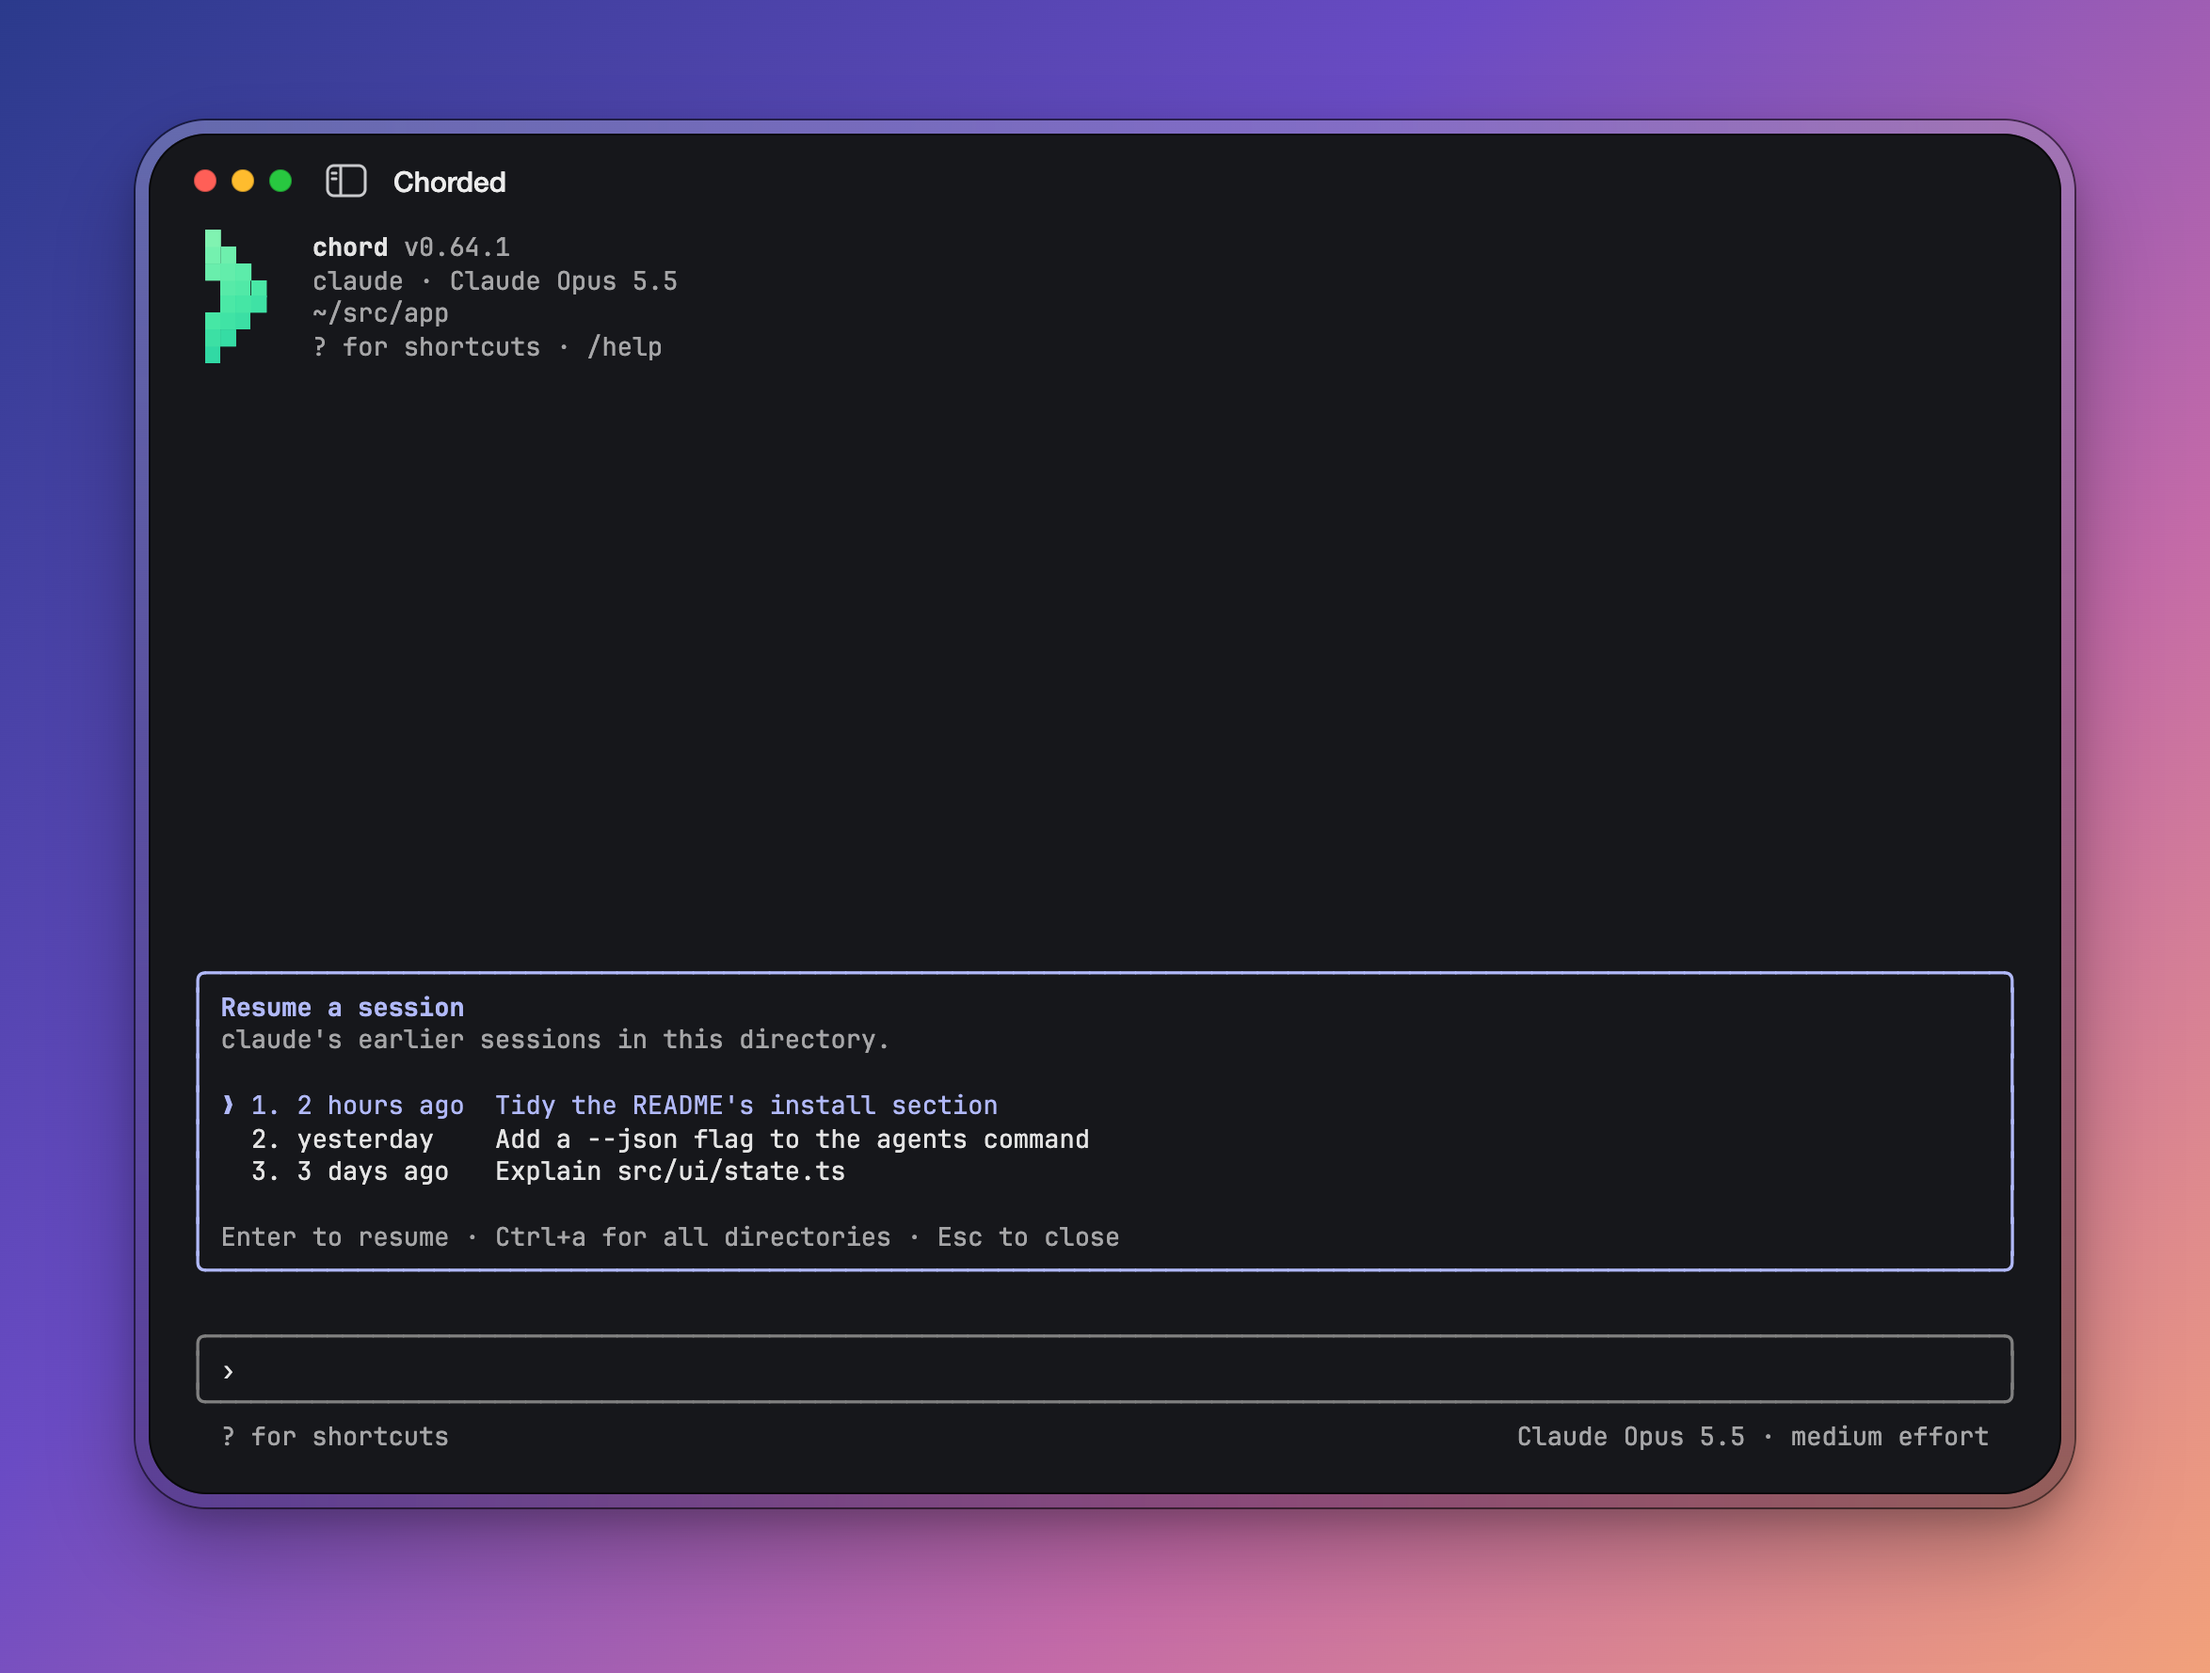
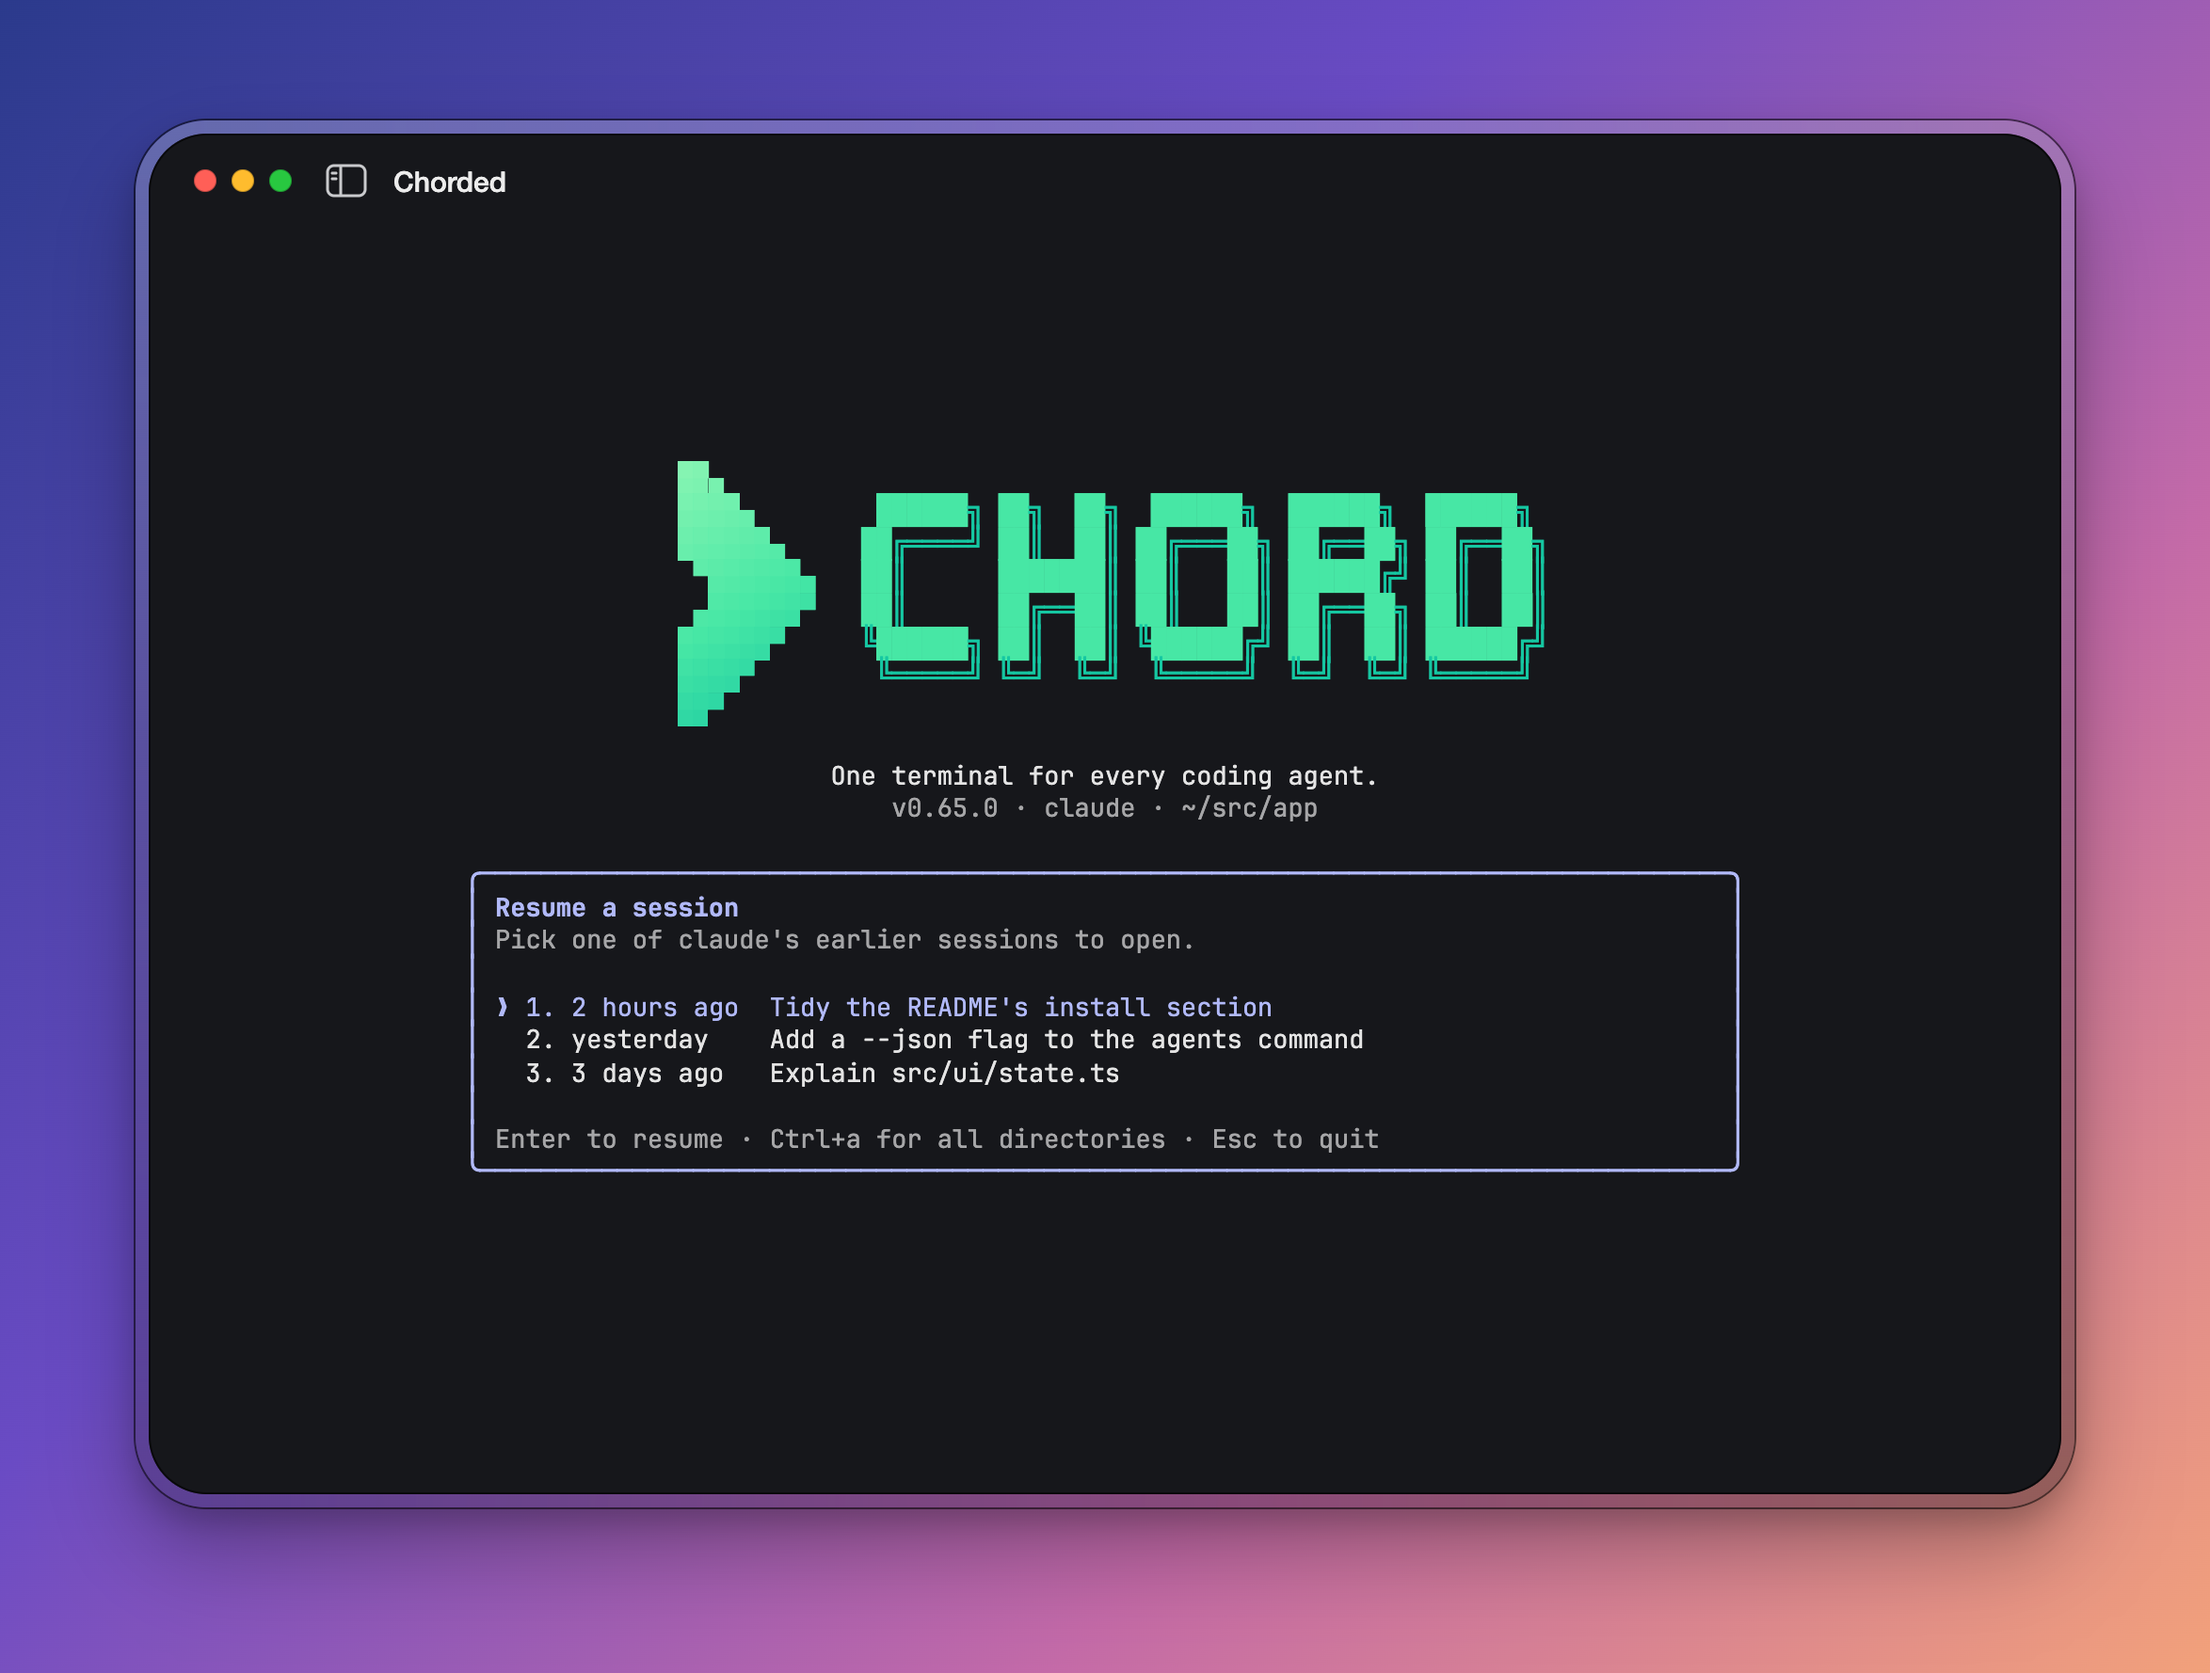
feat(screenshots): the title page's start and resume shots (CHD-564)

diff --git a/scripts/dev/screenshots.ts b/scripts/dev/screenshots.ts
@@ -39,14 +39,24 @@ type Step =
   | { readonly keys: readonly string[] }
   | { readonly until: string }
   | { readonly wait: number }
+  /** chord gone from its pane, as a `/exit` leaves it. */
+  | { readonly exited: true }
   /** The sessions recorded so far aged, the latest first, by these hours. */
-  | { readonly aged: readonly number[] };
+  | { readonly aged: readonly number[] }
+  /** chord started again in the same pane and home, with these arguments. */
+  | { readonly respawn: readonly string[] };
 
-interface Shot {
+export interface Shot {
   /** The file under docs/images, without `.png`. */
   readonly name: string;
   /** The fake agent's scenario for every prompt that names none. */
   readonly scenario: string;
+  /** chord's arguments; `claude` by default, as an unnamed start asks first. */
+  readonly args?: readonly string[];
+  /** What chord's first screen shows; the prompt's hint by default. */
+  readonly first?: string;
+  /** More of chord's environment. */
+  readonly env?: readonly string[];
   readonly steps: readonly Step[];
   /** Whether the project has the `bugfix` team saved; it has by default. */
   readonly team?: boolean;
@@ -57,7 +67,18 @@ function prompt(text: string): Step[] {
   return [{ type: text }, { keys: ['Enter'] }];
 }
 
-const SHOTS: readonly Shot[] = [
+export const SHOTS: readonly Shot[] = [
+  {
+    // Nothing picked, so no agent starts. The system's own PATH leaves out
+    // every own CLI on the machine that takes it, so the list is the same
+    // on any.
+    name: 'start',
+    scenario: 'text',
+    args: [],
+    first: 'Select agent',
+    env: ['PATH=/usr/bin:/bin'],
+    steps: [],
+  },
   {
     name: 'team',
     scenario: 'team',
@@ -131,9 +152,11 @@ const SHOTS: readonly Shot[] = [
         ...prompt('/clear'),
         { wait: 3000 },
       ]),
+      ...prompt('/exit'),
+      { exited: true },
       // Taken one after another, they would all say "just now".
       { aged: [2, 26, 75] },
-      ...prompt('/resume'),
+      { respawn: ['--resume'] },
       { until: 'Resume a session' },
     ],
   },
@@ -197,6 +220,18 @@ async function until(text: string, shot: string): Promise<void> {
   while (!screen().includes(text)) {
     if (Date.now() > end) {
       throw new Error(`${shot}: "${text}" never came.\n${screen()}`);
+    }
+
+    await sleep(100);
+  }
+}
+
+async function exited(shot: string): Promise<void> {
+  const end = Date.now() + 30_000;
+
+  while (tmux('display', '-p', '-t', 'shot', '#{pane_dead}').trim() !== '1') {
+    if (Date.now() > end) {
+      throw new Error(`${shot}: chord never left.\n${screen()}`);
     }
 
     await sleep(100);
@@ -321,16 +356,18 @@ async function capture(shot: Shot): Promise<string> {
         permission: 'Say in the README what changed',
       })}`,
     ];
-    const chord = [
-      process.execPath,
-      '--define',
-      'process.env.NODE_ENV:"production"',
-      join(ROOT, 'src', 'main.tsx'),
-      // Named, as an unnamed start opens the agent picker first (CHD-532).
-      'claude',
-      '-C',
-      join(home, 'src', 'app'),
-    ];
+    const chord = (args: readonly string[]) =>
+      `exec env ${quote([
+        ...env,
+        ...(shot.env ?? []),
+        process.execPath,
+        '--define',
+        'process.env.NODE_ENV:"production"',
+        join(ROOT, 'src', 'main.tsx'),
+        ...args,
+        '-C',
+        join(home, 'src', 'app'),
+      ])}`;
 
     tmux(
       'new-session',
@@ -341,11 +378,13 @@ async function capture(shot: Shot): Promise<string> {
       String(COLUMNS),
       '-y',
       String(ROWS),
-      `exec env ${quote([...env, ...chord])}`,
+      chord(shot.args ?? ['claude']),
     );
     tmux('set', '-g', 'default-terminal', 'tmux-256color');
     tmux('set', '-as', 'terminal-overrides', ',*:RGB');
-    await until('for shortcuts', shot.name);
+    // Its pane outlives a chord that leaves, for a `respawn` to start in.
+    tmux('set', '-w', '-t', 'shot', 'remain-on-exit', 'on');
+    await until(shot.first ?? 'for shortcuts', shot.name);
 
     for (const step of shot.steps) {
       if ('type' in step) {
@@ -356,8 +395,12 @@ async function capture(shot: Shot): Promise<string> {
         await sleep(300);
       } else if ('until' in step) {
         await until(step.until, shot.name);
+      } else if ('exited' in step) {
+        await exited(shot.name);
       } else if ('aged' in step) {
         await aged(join(dir, 'state', 'chord', 'records'), step.aged);
+      } else if ('respawn' in step) {
+        tmux('respawn-pane', '-k', '-t', 'shot', chord(step.respawn));
       } else {
         await sleep(step.wait);
       }
@@ -424,6 +467,9 @@ function page(frame: string): string {
   .title { font-size: 15px; font-weight: 500; color: #ececec; }
   .screen {
     padding: 2px 22px 22px; color: ${FOREGROUND};
+    /* The whole window: a capture ends each row at its last cell drawn, and a
+       centred page has no row that reaches the edge. */
+    width: ${String(COLUMNS)}ch;
     font: 13.5px/1.3 Term, Menlo, monospace; white-space: pre;
     font-variant-ligatures: none;
   }

diff --git a/tests/scripts/dev/screenshots_test.ts b/tests/scripts/dev/screenshots_test.ts
@@ -1,6 +1,7 @@
 import { describe, expect, test } from 'bun:test';
 import assert from 'node:assert/strict';
 import { readFile } from 'node:fs/promises';
+import { SHOTS } from '../../../scripts/dev/screenshots.ts';
 import { parseTeam } from '../../../src/teams.ts';
 
 describe('CHD-407 R1 tester: screenshot team', () => {
@@ -48,4 +49,46 @@ describe('CHD-560 U2 tester: screenshot team modes', () => {
       ]);
     });
   }
+});
+
+describe('CHD-564 the title page shots', () => {
+  const shot = (name: string) => {
+    const found = SHOTS.find((each) => each.name === name);
+
+    assert(found !== undefined);
+
+    return found;
+  };
+
+  test('start passes no name, waits for the picker, picks nothing, and leaves out own CLIs', () => {
+    const { args, first, env, steps } = shot('start');
+
+    expect(args).toEqual([]);
+    expect(first).toBe('Select agent');
+    expect(env).toContain('PATH=/usr/bin:/bin');
+    expect(steps).toEqual([]);
+  });
+
+  test('resume leaves with /exit, ages the records, and starts chord --resume', () => {
+    const { steps } = shot('resume');
+    const typed = steps.flatMap((step) => ('type' in step ? [step.type] : []));
+
+    expect(typed).not.toContain('/resume');
+    expect(typed.at(-1)).toBe('/exit');
+    expect(steps.slice(-4)).toEqual([
+      { exited: true },
+      { aged: [2, 26, 75] },
+      { respawn: ['--resume'] },
+      { until: 'Resume a session' },
+    ]);
+  });
+
+  test('every other shot is named, on the prompt', () => {
+    for (const { name, args, first } of SHOTS) {
+      if (name !== 'start') {
+        expect(args).toBeUndefined();
+        expect(first).toBeUndefined();
+      }
+    }
+  });
 });
